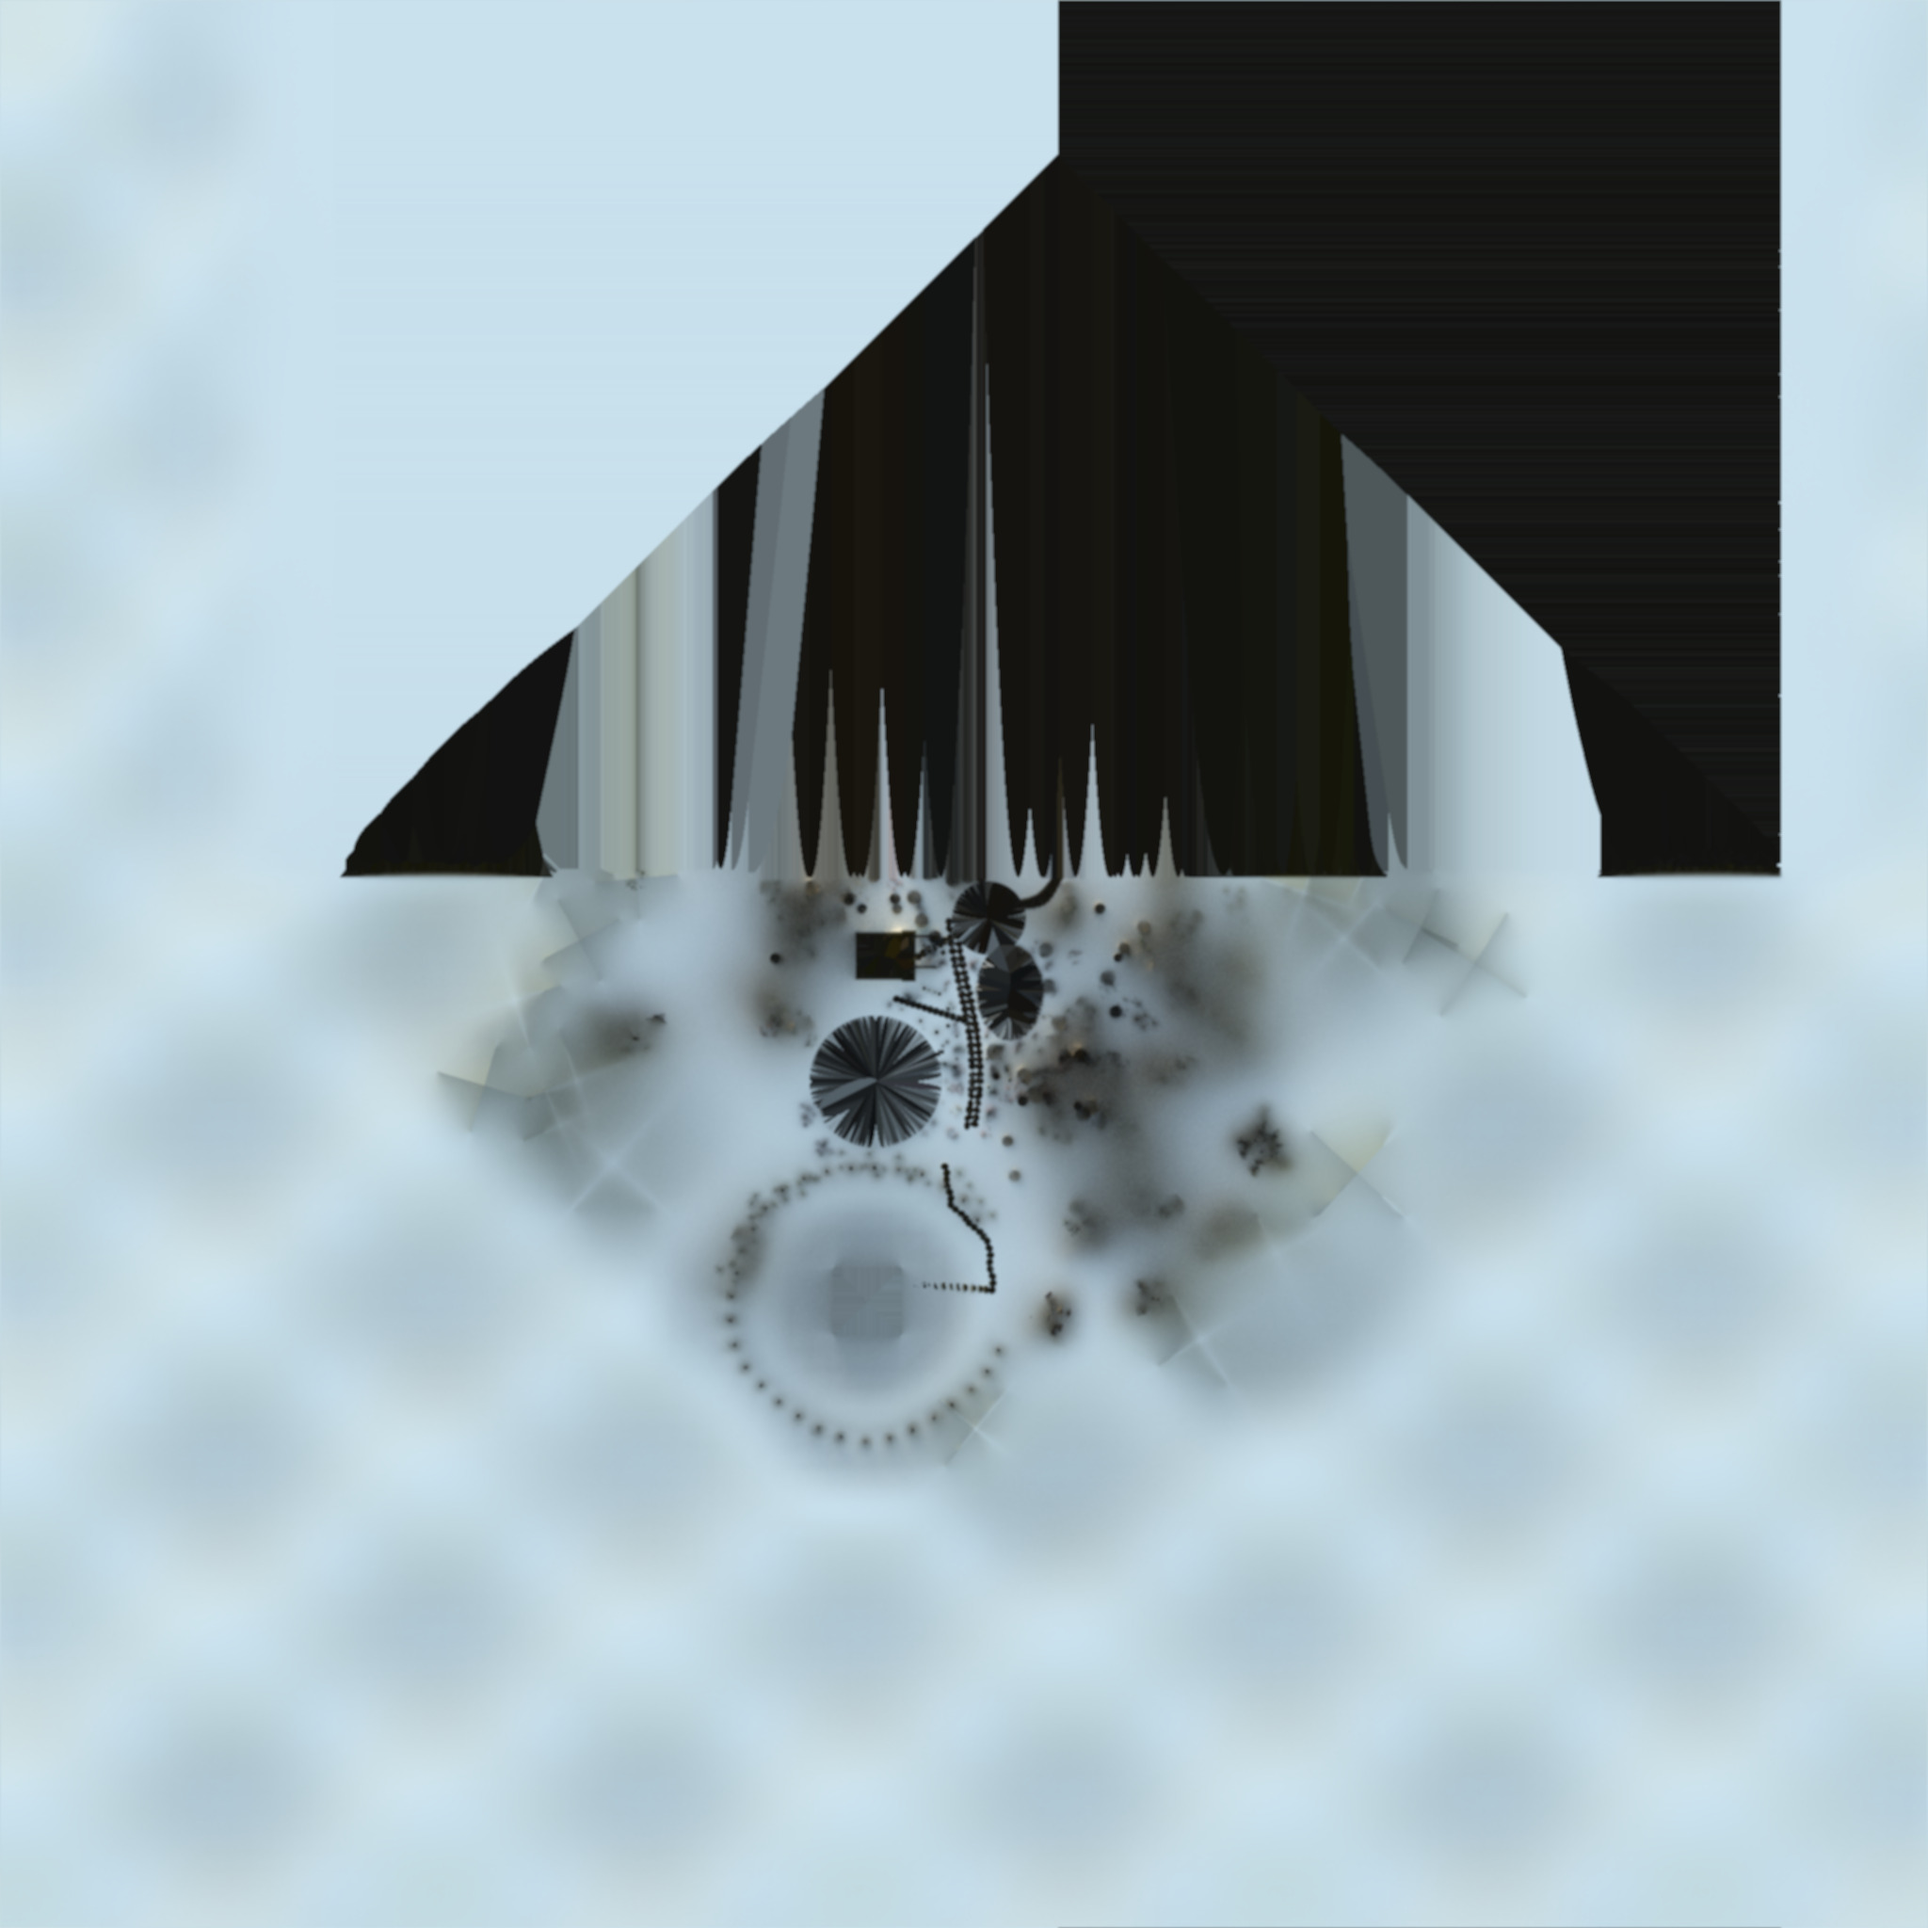
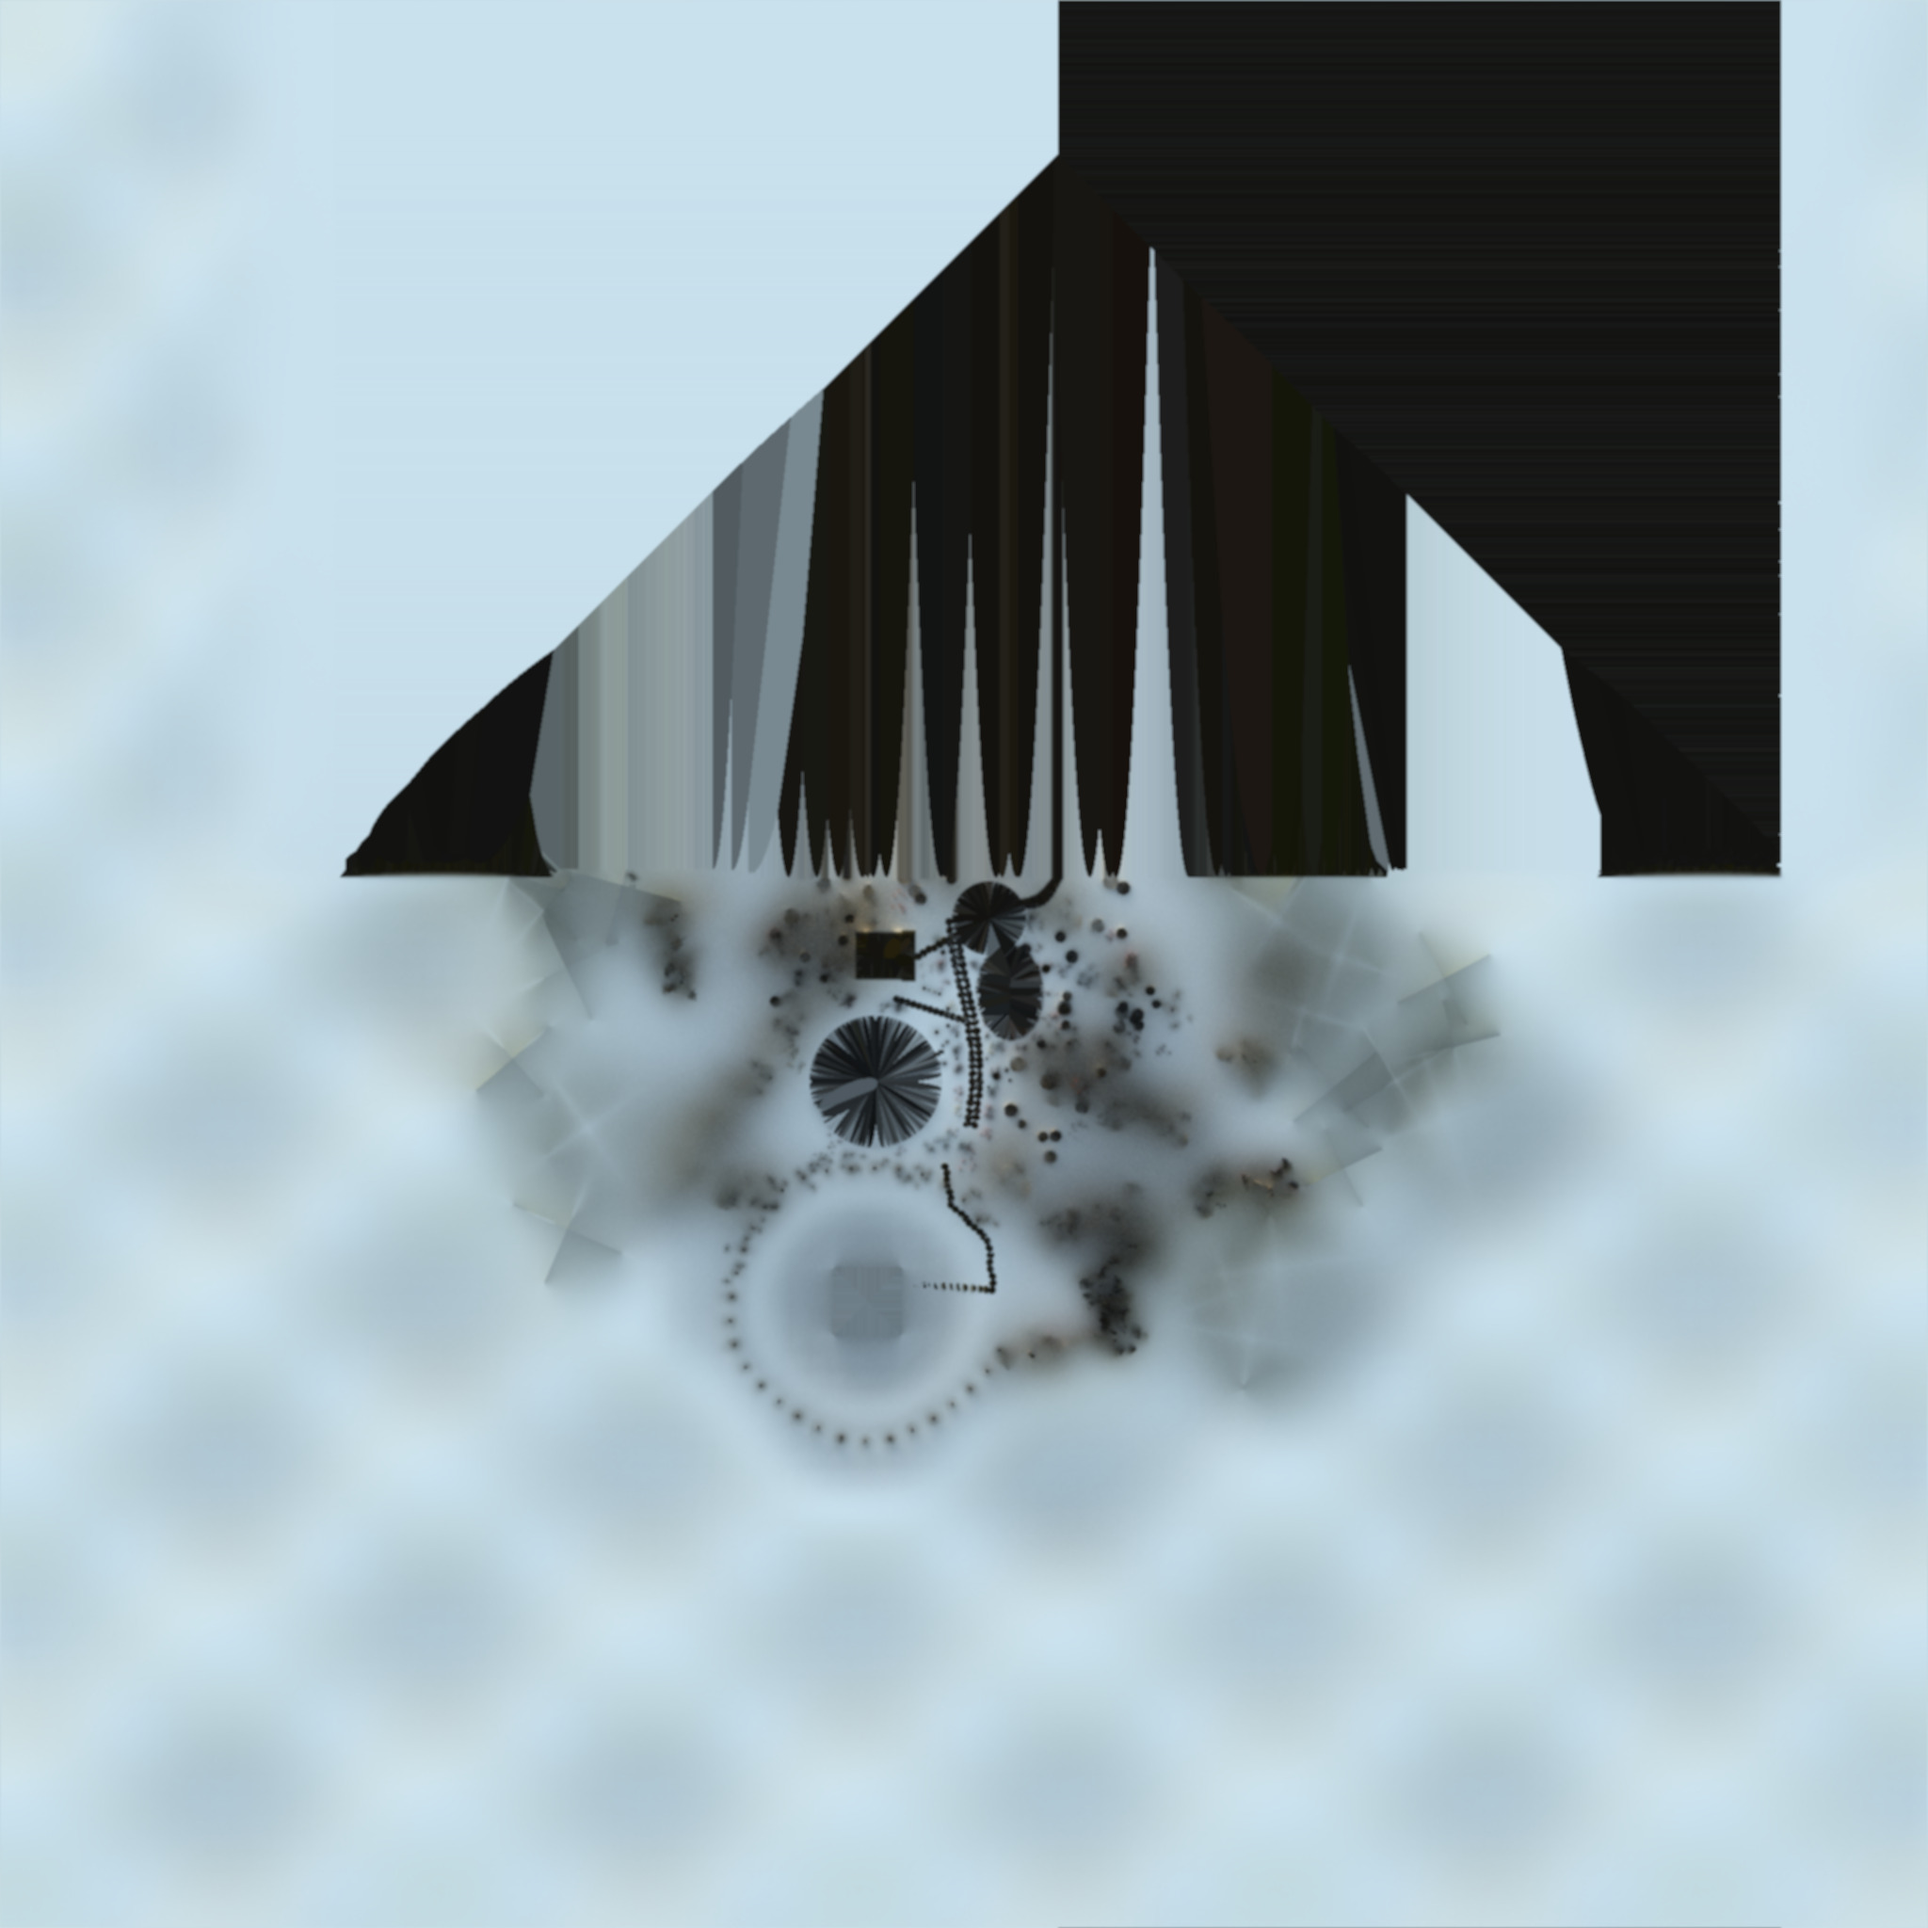
Re-bake the garden light on the merged scene
Main's statues, toll, secrets and hidden garments now block light. The sky box and
its backstage stay out of the export because from inside the garden they read as
open sky; grass and blob shadows stay out because they would only darken the ground.

Changed region(s): [[0.2188, 0.125, 0.7812, 0.7812], [0.1875, 0.4062, 0.2188, 0.4375]]

diff --git a/docs/graphics/RESULTS.md b/docs/graphics/RESULTS.md
@@ -64,5 +64,7 @@ asset compression). Merged before release. Decisions:
 Measured against the live site in the same script on the same M4 (calls): spawn 319 vs 314, vault 268 vs 265, librarian
 604 vs 688, open match 575 vs 583. Over budget as live already is.
 
-Not re-baked: the light bake predates main's sky box, statues and secrets, so these get probe light but cast no baked
-shadow. Re-run tools/blender/bake_garden_light.py to include them.
+Re-baked after the merge, so main's statues, toll, secrets and hidden garments block light. The sky box and its backstage
+are left out on purpose (`export-static-scene.mjs`): from inside the garden they read as open sky, and as geometry they
+would darken it. Grass and blob shadows are left out too. Settings: 2048 terrain, 192 samples, 128 per probe. Run
+Blender by its full path (`/Applications/Blender.app/Contents/MacOS/Blender`), since it is not on PATH.
